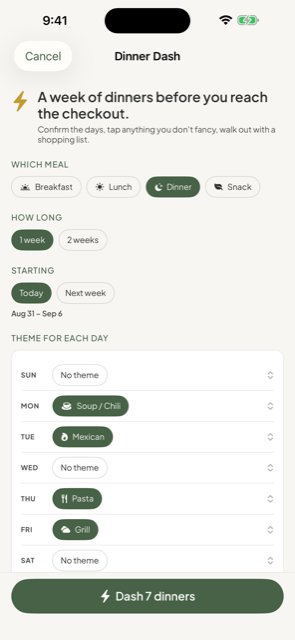
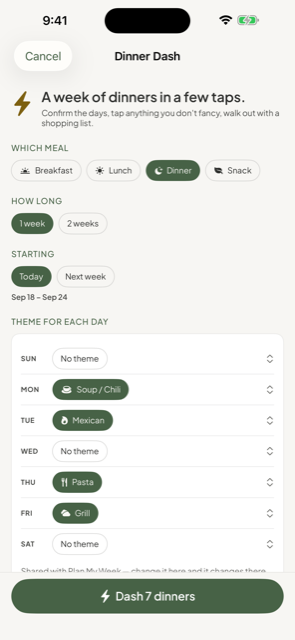
Re-capture the Dinner Dash asset with the new headline
The setup screen no longer promises a time ("in a few taps", per the
advertising review); the 295×640 feature image now shows it. Its
cache-bust string moves to 20260918b in case today's earlier version
was already served.

diff --git a/index.html b/index.html
@@ -82,7 +82,7 @@
       <h2 class="section-title">Three things it does that others don’t</h2>
 
       <article class="feature">
-        <img src="/assets/feature-dash.png?v=20260918" alt="The Dinner Dash setup screen: pick the meal, the week, and a theme for each night" width="295" height="640" loading="lazy">
+        <img src="/assets/feature-dash.png?v=20260918b" alt="The Dinner Dash setup screen: pick the meal, the week, and a theme for each night" width="295" height="640" loading="lazy">
         <div>
           <h3>Dinner Dash: a whole week planned in a few taps</h3>
           <p>
